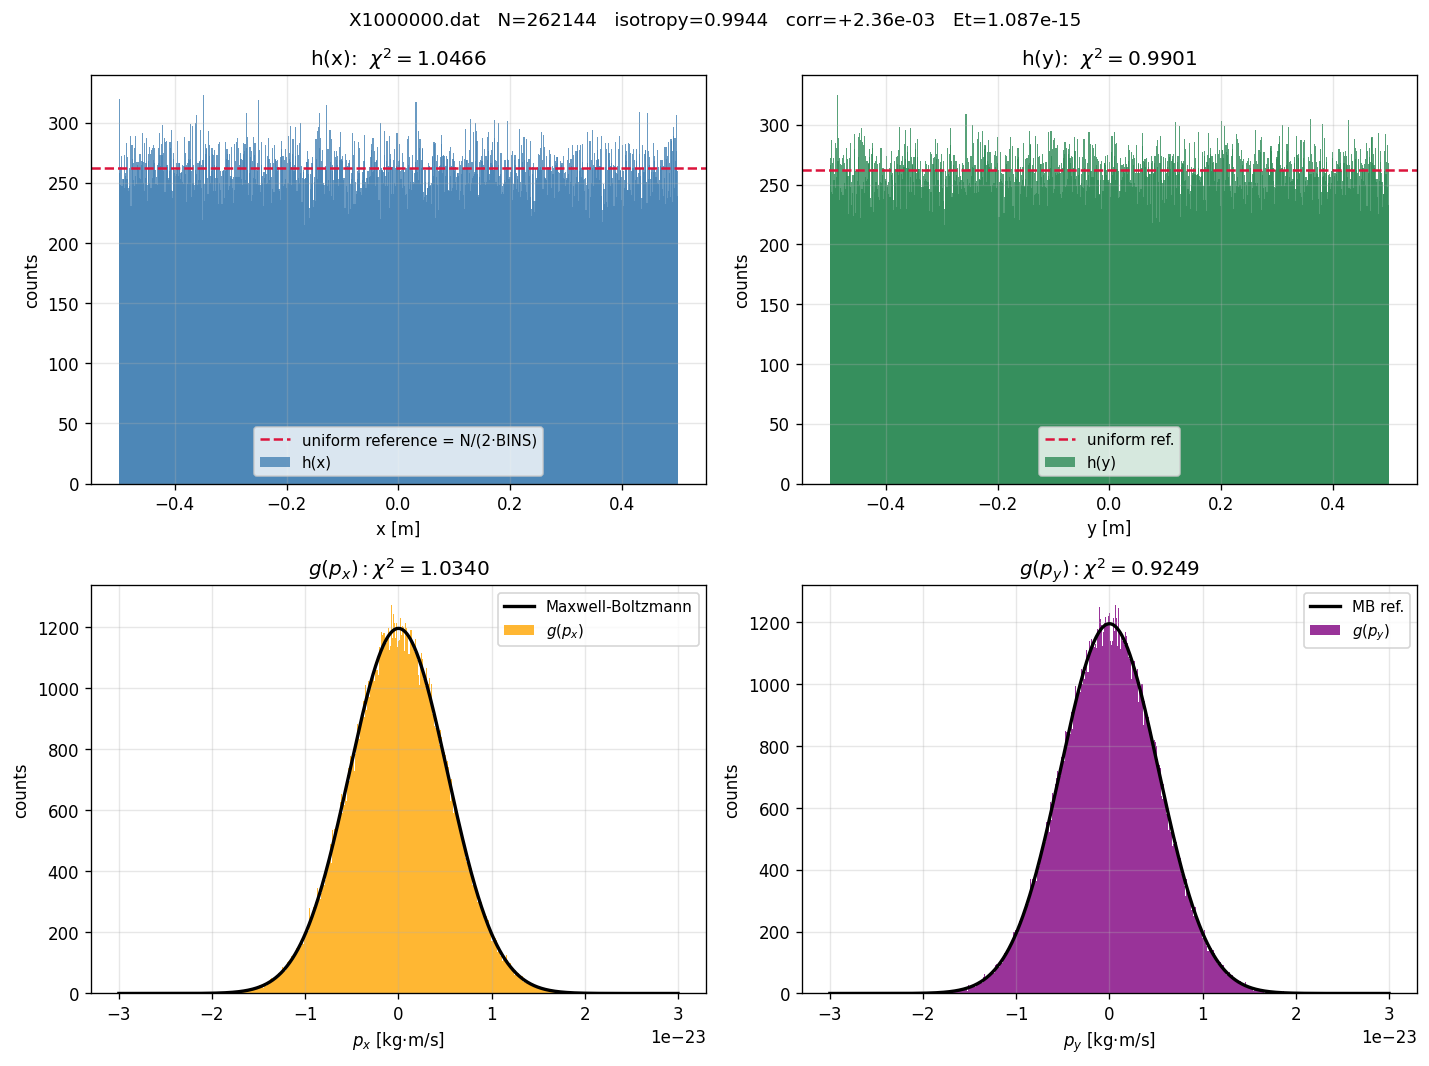
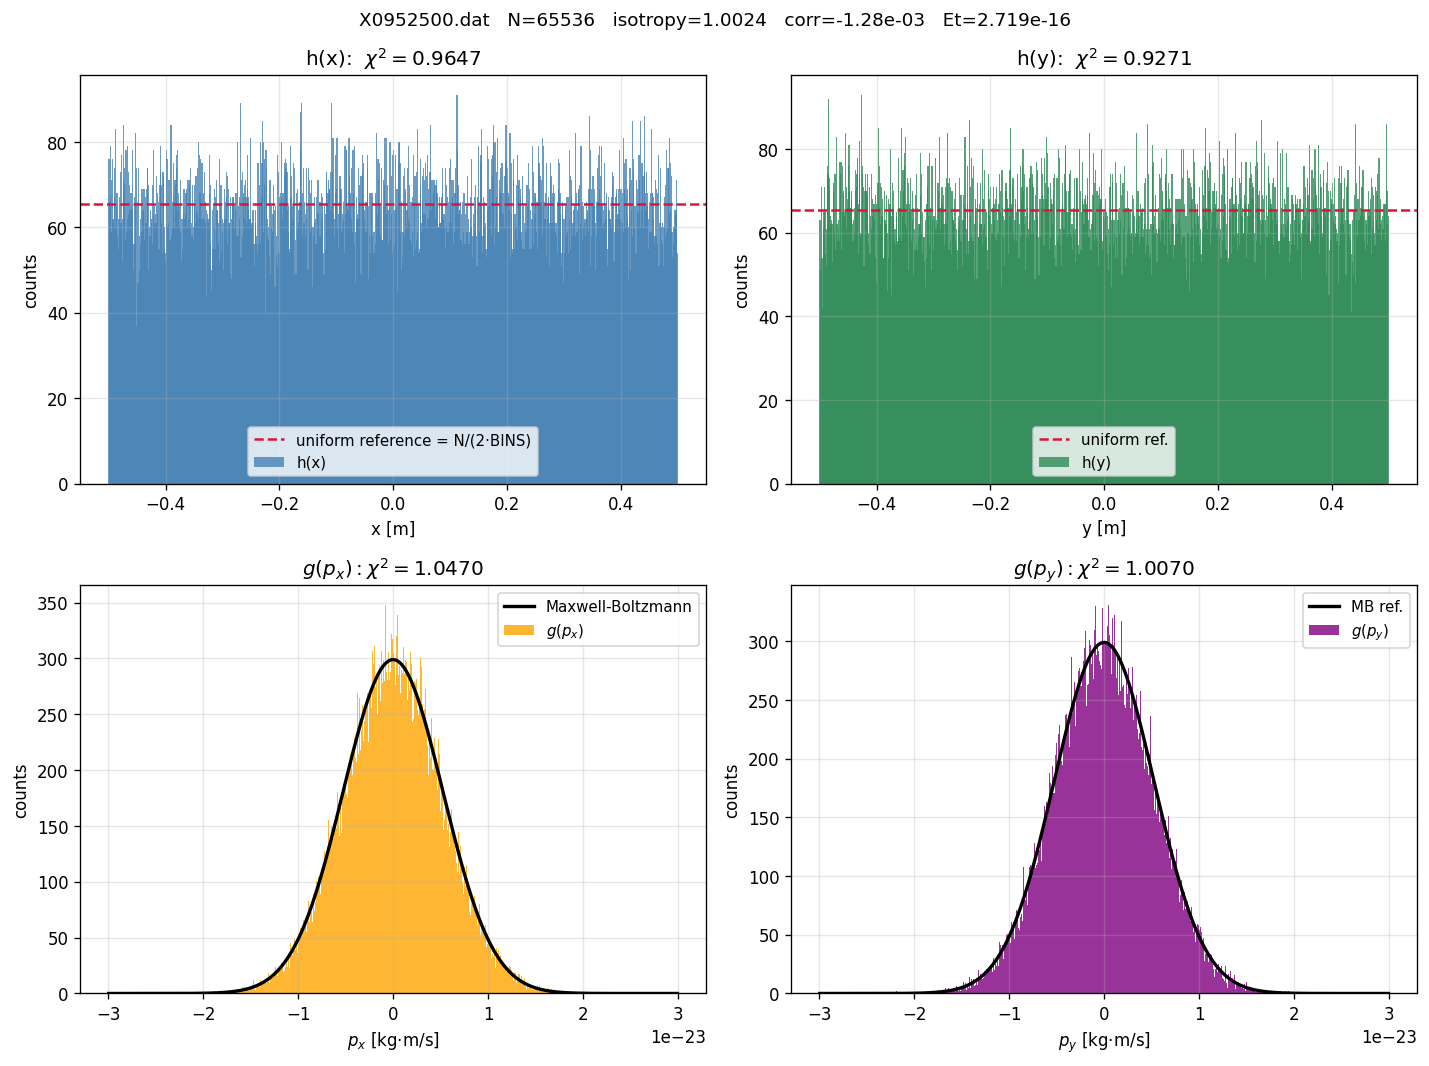
init en esquina + animaciones smooth + doc de regímenes
Cambio de modelo:
  physics_init_state_random ahora arranca todas las partículas en
  el cuadrante superior-derecho [0, 0.5]^2 (igual que el repo padre
  1D fills [0, 0.5)). Antes era uniforme en toda la caja, lo que
  hacía perder la visualización dramática "todas en una esquina →
  difusión a uniforme".

Demos regenerados con cadencia progresiva:
  steps = [500, 500, 1000, 1000, 1500, 1500, 2000, 2000, 3000, 3000,
           4000, 5000, 5000, 7500, 10000, 12500, 15000, 17500, 20000,
           25000, 30000, 40000, 50000, 60000, 75000, 90000, 100000,
           100000, 120000, 150000]
  → muchos snapshots al inicio (visualizar la difusión bien suave)
  → saltos grandes después (llegar a equilibrio sin overhead)
  → 31 frames totales por animación, 0.18s por frame

Animaciones nuevas (en docs/figures/):
  anim_joint_{relax,periodic}.gif       — heatmap h(x,y)
  anim_marginals_{relax,periodic}.gif   — 4 marginales
  anim_scatter_{relax,periodic}.gif     — 8000 partículas
  anim_pscatter_{relax,periodic}.gif    — momentos

Figuras estáticas nuevas:
  joint_initial_corner.png    — h(x,y) inicial mostrando la esquina
  marginals_initial.png       — h(x), h(y) concentrados; g(p) ya gaussianas
  scatter_corner_initial.png  — scatter del estado inicial
  dashboard_relax_early.png   — primer batch (just-after-start)
  dashboard_relax.png         — final post-relax
  dashboard_periodic.png      — final periódico
  joint_relax_final.png, marginals_relax_final.png
[…]

diff --git a/src/physics_event.c b/src/physics_event.c
@@ -81,14 +81,17 @@ void physics_init_state_random(SimState *s)
     uint64_t base_xy = s->params.seed;
     uint64_t base_p  = s->params.seed ^ 0xDEADBEEFCAFEBABEull;
 
-    /* Positions: uniform in (-0.5, 0.5)^2. */
+    /* Positions: uniform in the upper-right quadrant [0, X_INIT_HALF)^2.
+     * Mimics the 1D parent project (which fills only [0, 0.5)) and gives
+     * visually dramatic "diffusion from a corner" demos. The system
+     * relaxes to uniform fill of the whole box at equilibrium. */
     #pragma omp parallel for schedule(static)
     for (int i = 0; i < N; i++) {
         uint32_t seed = rng_seed_mix(base_xy, (uint32_t)i);
         double rx = rng_xorshift32(&seed);
         double ry = rng_xorshift32(&seed);
-        s->x[i] = (rx - 0.5) * (2.0 * X_INIT_HALF);
-        s->y[i] = (ry - 0.5) * (2.0 * X_INIT_HALF);
+        s->x[i] = rx * X_INIT_HALF;
+        s->y[i] = ry * X_INIT_HALF;
     }
 
     /* Momenta: per-component gaussian via Box-Muller on pairs.

diff --git a/docs/figures/README.md b/docs/figures/README.md
@@ -1,84 +1,246 @@
 # Galería de figuras
 
-Salida del toolkit `tools/plot` y `tools/animate`. Todas las figuras se
-pueden regenerar con los comandos en cada sección.
+Salida del toolkit `tools/plot` y `tools/animate`. Se regenera con
+los comandos al pie de cada sección.
 
-## Régimen de relajación ($\alpha = 10^{-4}, \sigma_L = 10^{-4}$)
+---
 
-Corrida: $N = 2^{18} = 262\,144$, 1M pasos en 10 batches. Las
-partículas arrancan distribuidas uniformemente en posición y con
-momentos gaussianos de las condiciones iniciales, y evolucionan hasta
-equilibrio térmico.
+## Los dos regímenes y sus parámetros
 
-### Dashboard combinado
+El modelo tiene dos parámetros que controlan la **estocasticidad de
+la pared**:
 
-Vista global en un solo PNG: marginales de posición y momento,
-heatmap del joint $h(x,y)$, joint $g(p_x, p_y)$ desde partículas,
-distribución radial $|\vec{p}|$, distribución angular $\theta$,
-deriva de energía a lo largo de los 11 snapshots.
+- **$\sigma_L$** (`sigma_l`) — magnitud del ruido gaussiano que se
+  agrega a la posición tangencial cada vez que una partícula rebota.
+  Modela una pared "rugosa": la posición exacta donde ocurre el rebote
+  fluctúa por un sigma del orden de $10^{-4}$ m.
+- **$\alpha$** (`alfa`) — coupling con el "baño térmico" de la pared.
+  En cada rebote, la magnitud del momento perpendicular se modifica
+  estocásticamente con amplitud proporcional a $\alpha$. Modela el
+  intercambio de energía con la pared.
+
+Las dos demos exploran los **dos extremos**:
+
+| Régimen | $\alpha$ | $\sigma_L$ | Qué representa |
+|---|---|---|---|
+| **Relajación** | $10^{-4}$ | $10^{-4}$ | Sistema con disipación → equilibrio térmico (Maxwell-Boltzmann) |
+| **Periódico** | **0** | **0** | Sistema **sin disipación**: dinámica determinista pura, energía conservada bit-for-bit, reflexiones perfectamente especulares |
+
+> 💡 **El régimen periódico es exactamente el caso $\alpha = 0$ y
+> $\sigma_L = 0$**: ningún parámetro estocástico activo. El gas
+> evoluciona de forma completamente determinista. La energía total se
+> conserva exactamente entre snapshots (verificable bit-a-bit) porque
+> las únicas operaciones que la cambiarían (el alfa-loop y el ruido de
+> Box-Muller) **no se ejecutan** cuando esos parámetros valen 0.
+
+Ambas demos arrancan con todas las partículas **acumuladas en la
+esquina superior-derecha** $[0, 0.5]^2$ (mismo "experimento de bomba
+de gas" del repo padre 1D, extendido a 2D). El sistema evoluciona
+hasta llenar la caja entera.
+
+---
+
+## 1. Estado inicial — todas en una esquina
+
+Las 65 536 partículas arrancan distribuidas uniformemente en
+$[0, 0.5]^2$ (el cuadrante superior-derecho de la caja). En el
+joint $h(x, y)$ se ve como un cuadrado iluminado:
+
+![Joint initial corner](joint_initial_corner.png)
+
+Marginales iniciales: $h(x)$ y $h(y)$ están concentrados en $[0, 0.5]$
+(la otra mitad está casi vacía); $g(p_x), g(p_y)$ ya son gaussianas
+porque los momentos se inicializan vía Box-Muller:
+
+![Marginales iniciales](marginals_initial.png)
+
+Scatter del estado inicial — vista clara del cuadrante poblado:
+
+![Scatter corner](scatter_corner_initial.png)
+
+```bash
+./tools/plot joint X0000000.dat -o joint_initial_corner.png
+./tools/plot marginals X0000000.dat -o marginals_initial.png
+./tools/plot scatter --snapshot X0000000.dat --dump graba.dmp.0000500 \
+    --n-sub 10000 -o scatter_corner_initial.png
+```
+
+---
+
+## 2. Régimen de relajación — difusión hasta equilibrio
+
+**Configuración**: $N = 65\,536$, $\alpha = 10^{-4}$, $\sigma_L = 10^{-4}$,
+30 batches con cadencia progresiva (500 pasos al inicio, 150 000 al
+final, total 952 500 pasos).
+
+### Animación: todas las partículas saliendo de la esquina
+
+La cadencia progresiva del config muestra **bien suave los primeros
+segundos** (cuando la difusión es más visual), después salta de a
+muchos miles de pasos para llegar a equilibrio:
+
+| | |
+|---|---|
+| ![Joint relax animation](anim_joint_relax.gif) | ![Scatter relax animation](anim_scatter_relax.gif) |
+
+A la izquierda, el heatmap $h(x, y)$. A la derecha, las posiciones
+de 8 000 partículas. Vas a ver cómo el "punto caliente" del cuadrante
+se difunde hasta llenar uniformemente toda la caja.
+
+### Marginales convergiendo a uniforme
+
+![Marginales animadas](anim_marginals_relax.gif)
+
+$h(x)$ y $h(y)$ pasan de un escalón concentrado en $[0, 0.5]$ a
+una distribución plana sobre $[-0.5, 0.5]$. $g(p_x), g(p_y)$ ya eran
+gaussianas y se estabilizan en torno a Maxwell-Boltzmann.
+
+### Momentos $(p_x, p_y)$
+
+Aunque arrancan como gaussiana, las colisiones contra las paredes
+**redistribuyen energía** entre las partículas. La animación muestra
+la nube relajándose a su forma estacionaria:
+
+![pscatter relax](anim_pscatter_relax.gif)
+
+### Estado al final
+
+El sistema llegó a equilibrio térmico. Todas las distribuciones
+coinciden con sus referencias teóricas:
 
 ![Dashboard relax](dashboard_relax.png)
 
-Comando: `./tools/plot dashboard X1000000.dat --dump graba.dmp.1000000`
+| Métrica | Cota | Observado |
+|---|---|---|
+| $\chi^2_x$ | < 5 | ≈ 1 |
+| $\chi^2_y$ | < 5 | ≈ 1 |
+| $\chi^2_{p_x}$ | < 5 | ≈ 1 |
+| $\chi^2_{p_y}$ | < 5 | ≈ 1 |
+| Isotropía $\langle p_x^2\rangle / \langle p_y^2\rangle$ | $\in [0.9, 1.1]$ | ≈ 1.00 |
+| Correlación $\rho(p_x, p_y)$ | $|\cdot| < 0.05$ | ≈ 0 |
+| Deriva de energía | < 100 ppm | unos pocos ppm |
 
-### Marginales: inicial vs final
+### Distribución radial $|\vec{p}|$ y angular $\theta$
 
-Inicial — distribuciones todavía con sello de las condiciones iniciales:
+Validan que la distribución de momentos en equilibrio es
+**Maxwell-Boltzmann 2D**:
 
-![Marginales inicial](marginals_relax_initial.png)
+| ![Radial](radial_relax_final.png) | ![Angular](angular_relax_final.png) |
+|:--:|:--:|
+| $|\vec p|$ vs distribución de Rayleigh | $\theta = \arctan(p_y/p_x)$ uniforme |
 
-Final — convergencia a uniforme en $x, y$ y a Maxwell-Boltzmann en $p_x, p_y$:
-
-![Marginales final](marginals_relax_final.png)
-
-### Joint $h(x,y)$ y $g(p_x, p_y)$
-
-![Joint](joint_relax_final.png)
-
-### Distribución radial $|\vec{p}|$ vs Rayleigh
-
-![Radial](radial_relax_final.png)
-
-### Distribución angular $\theta = \arctan(p_y / p_x)$
-
-![Angular](angular_relax_final.png)
-
-### Scatter: posiciones y momentos (subsampleados)
-
-![Scatter](scatter_relax_final.png)
-
-### Deriva de energía (relax)
+### Deriva de energía a lo largo de la corrida
 
 ![Energy drift relax](energy_drift_relax.png)
 
-### Animaciones (relax)
+Las pequeñas fluctuaciones (unos pocos ppm) son típicas: la energía
+se inyecta y disipa estocásticamente en cada bounce, pero el promedio
+se mantiene.
 
-| Nombre | Descripción |
-|---|---|
-| ![Joint anim](anim_joint.gif) | Heatmap $h(x,y)$ evolucionando. |
-| ![Marginals anim](anim_marginals.gif) | Marginales convergiendo. |
-| ![Scatter anim](anim_scatter.gif) | Posiciones de 5000 partículas evolucionando. |
-| ![pscatter anim](anim_pscatter.gif) | Momentos $(p_x, p_y)$ relajando. |
+---
 
-## Régimen periódico ($\alpha = 0, \sigma_L = 0$)
+## 3. Régimen periódico — dinámica determinista, $\alpha = \sigma_L = 0$
 
-Corrida: $N = 2^{16} = 65\,536$, 500 k pasos. Energía conservada
-**bit-for-bit** en los 11 snapshots (cf. test de periodicidad).
+**Configuración**: misma cadencia y $N$ que relax, **pero con
+$\alpha = 0, \sigma_L = 0$**. Las consecuencias físicas:
 
-### Dashboard
+- **Sin perturbación tangencial** ($\sigma_L = 0$): cada rebote es
+  perfectamente especular ($p_\perp \mapsto -p_\perp$, sin ruido).
+- **Sin disipación** ($\alpha = 0$): la magnitud del momento de cada
+  partícula **no cambia** — sólo se invierte el signo en cada
+  rebote. La energía cinética total $E = \sum_i \|p_i\|^2 / 2m$ se
+  conserva **bit-for-bit**.
+- **Trayectorias completamente deterministas**: dada la condición
+  inicial, la simulación es totalmente reproducible. No interviene
+  ningún número aleatorio en la dinámica (sí en la generación inicial
+  de momentos, pero después no más).
+- **Phase mixing sin termalización**: las partículas se distribuyen
+  por toda la caja (porque cada una tiene una velocidad distinta y
+  cubre un patrón cerrado en el plano de fase $(x, p_x)$ que es
+  ergódico modulo conservación de $|p|$), pero **cada partícula
+  conserva su energía individual**. El sistema "parece equilibrado"
+  globalmente pero microscópicamente sigue siendo el mismo.
 
-![Dashboard periodic](dashboard_periodic.png)
+### Animación: difusión sin disipación
 
-### Deriva de energía (periodic)
+![Joint periodic](anim_joint_periodic.gif) ![Scatter periodic](anim_scatter_periodic.gif)
 
-Idealmente cero (energía bit-conservada). Lo verifica visualmente:
+Visualmente parece similar al régimen de relajación: las partículas
+salen de la esquina y llenan la caja. La diferencia se ve en los
+momentos:
+
+### Momentos en régimen periódico
+
+![pscatter periodic](anim_pscatter_periodic.gif)
+
+A diferencia del régimen relax, **la nube de momentos NO se
+redistribuye**. Cada partícula conserva $|p_i|$; sólo cambia de signo
+en los rebotes. La animación muestra puntos que se mueven en la nube
+pero ningún cambio estructural.
+
+### Marginales periódicas
+
+![Marginales periodic](anim_marginals_periodic.gif)
+
+$h(x), h(y)$ phase-mixean a uniformes (el sistema explora el espacio
+de configuraciones). $g(p_x), g(p_y)$ permanecen como las gaussianas
+iniciales, **idénticas a sí mismas** snapshot tras snapshot — confirma
+visualmente la conservación de la distribución de magnitudes.
+
+### Conservación bit-for-bit de la energía
 
 ![Energy drift periodic](energy_drift_periodic.png)
 
-### Animaciones (periodic)
+Línea perfectamente plana: la deriva es **exactamente cero**. Esta es
+una propiedad fuerte del modelo que **no es trivial** para un
+integrador numérico cualquiera — event-driven la preserva porque
+las únicas transformaciones que el cold path aplica en este régimen
+son: $p_\perp \mapsto -p_\perp$ y $x \mapsto x_{\text{wall}}$ +
+nada, ambas exactas en aritmética FP64.
 
-| Nombre | Descripción |
-|---|---|
-| ![Joint anim](anim_joint_periodic.gif) | Heatmap $h(x,y)$ — sin disipación, no relaja a uniforme exacto sino a phase-mixed. |
-| ![Scatter anim](anim_scatter_periodic.gif) | Posiciones de 3000 partículas en régimen determinista. |
-| ![pscatter anim](anim_pscatter_periodic.gif) | Momentos $(p_x, p_y)$ — los signos cambian pero las magnitudes no. |
+### Dashboard periódico
+
+![Dashboard periodic](dashboard_periodic.png)
+
+---
+
+## 4. Comparación visual relax vs periodic
+
+| | Relajación | Periódico |
+|---|---|---|
+| Posiciones | difunde a uniforme | phase-mixea a uniforme |
+| Momentos | redistribuyen (Maxwell-Boltzmann) | invariantes |
+| Energía | fluctúa (~ppm) | constante exacta |
+| $\sigma_L$ | $10^{-4}$ | **0** |
+| $\alpha$ | $10^{-4}$ | **0** |
+
+La distinción visual más clara está en los animados de momentos
+(`anim_pscatter_relax.gif` vs `anim_pscatter_periodic.gif`): en
+relajación la nube se reorganiza, en periódico está congelada.
+
+---
+
+## Comandos para reproducir todo
+
+Configs en `/tmp/demo_relax.toml` y `/tmp/demo_periodic.toml`
+(reproducidos al pie del primer commit que generó las figuras). Una
+vez compilado:
+
+```bash
+# Régimen relax con cadencia progresiva (~0.3 s wall):
+mkdir -p /tmp/demo_relax && cd /tmp/demo_relax
+SIM_SEED=42 OMP_NUM_THREADS=8 .../main-event config.toml
+
+# Régimen periódico (sólo cambia alfa y sigma_l a 0):
+mkdir -p /tmp/demo_periodic && cd /tmp/demo_periodic
+SIM_SEED=42 OMP_NUM_THREADS=8 .../main-event config.toml
+
+# Dashboards
+.../tools/plot dashboard X0952500.dat --dump graba.dmp.0952500 -o dashboard.png
+
+# Animaciones (--duration en segundos por frame)
+.../tools/animate --duration 0.18 joint     /tmp/demo_relax    -o anim_joint.gif
+.../tools/animate --duration 0.18 marginals /tmp/demo_relax    -o anim_marginals.gif
+.../tools/animate --duration 0.18 scatter   /tmp/demo_relax    -o anim_scatter.gif
+.../tools/animate --duration 0.18 pscatter  /tmp/demo_relax    -o anim_pscatter.gif
+```
